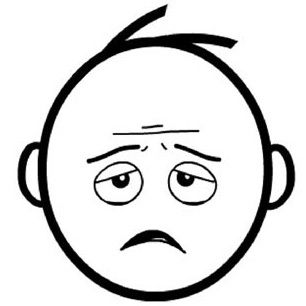
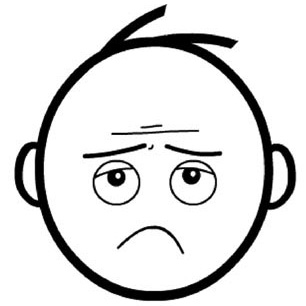
Rename nausea images to align with scale

diff --git a/src/Patient/ReportingFlows/NauseaPopUp.js b/src/Patient/ReportingFlows/NauseaPopUp.js
@@ -1,44 +1,42 @@
 import React, { useState } from 'react'
 import { makeStyles } from '@material-ui/core/styles';
 import useStores from '../../Basics/UseStores';
-import { observer } from 'mobx-react'
 import PopUp from '../Navigation/PopUp';
 import { useTranslation } from 'react-i18next';
-import Slider from '@material-ui/core/Slider';
 import Button from '@material-ui/core/Button';
-import Typography from '@material-ui/core/Typography';
 import Colors from '../../Basics/Colors'
+import { Box, ButtonBase, Grid, Typography } from '@material-ui/core';
+import FlatButton from '../../Components/FlatButton';
 
 
 const useStyles = makeStyles({
-    slider: {
-        width: "80%",
-        marginTop: "2em"
-    },
-    picture: {
-        width: "80%",
-        objectFit: "contain"
-    },
-    button: {
-        textTransform: "capitalize",
-        marginTop: "2em"
-    },
-    buttons:{
-        width: "70%",
-        display: "flex",
-        justifyContent: "space-between",
-       "& > button":{
-        border: `1px solid ${Colors.buttonBlue}`,
-        padding: 0
-       },
-        "& > button > span":{
-            color: Colors.buttonBlue,
-            fontSize: "1.75em"
-        }
-    },
     topText: {
-        marginTop: "1em",
-        marginBottom: "1em"
+        fontSize: "1.2rem",
+        textAlign: "left",
+        fontWeight: "bold"
+    },
+    selectionButton: {
+        borderRadius: "5px",
+        border: `solid 2px ${Colors.textGray}`,
+        position: "relative",
+        boxSizing: "border-box"
+    },
+    buttonNumber: {
+        position: "absolute",
+        fontSize: "1.5em",
+        alignSelf: "flex-start",
+        padding: "0 8px",
+        top: 0,
+        left: 0
+    },
+    buttonImage: {
+        width: "100%",
+        borderRadius: "5px"
+    },
+    submitButton:{
+        width: "100%",
+        fontSize: "1em",
+        justifyContent: "center"
     }
 })
 
@@ -46,7 +44,7 @@ const Nausea = () => {
 
     const classes = useStyles();
     const { patientStore } = useStores();
-    const { t, i18n } = useTranslation('translation');
+    const { t } = useTranslation('translation');
     const [value, setValue] = useState(1)
 
 
@@ -75,28 +73,32 @@ const Nausea = () => {
         }
     }
 
+    const nums = [0, 2, 4, 6, 8, 10]
+
 
     return (
         <PopUp handleClickAway={handleClose} handleClose={handleClose}>
-            <Typography className={classes.topText}>{t('patient.report.symptoms.nauseaRating')}</Typography>
-            <img className={classes.picture} src="/scale.jpg" />
-            <Slider
-                value={value}
-                className={classes.slider}
-                getAriaValueText={valuetext}
-                onChange={handleChange}
-                aria-labelledby="nausea-rating-slider"
-                valueLabelDisplay="on"
-                step={1}
-                marks
-                min={0}
-                max={10}
-            />
-            <div className={classes.buttons}>
-                <Button onClick={subtract}>-</Button>
-                <Button onClick={add} >+</Button>
-            </div>
-            <Button onClick={handleClose} className={classes.button} color="primary">{t('settings.submit')}</Button>
+            <Box paddingTop="32px">
+                <Typography variant='h1' className={classes.topText}>{t('patient.report.symptoms.instructions')}</Typography>
+            </Box>
+            <Box padding="32px 0">
+                <Grid container>
+                    {nums.map(num => {
+                        return (
+                            <Grid xs={4}>
+                                <Box padding={".25em"}>
+                                    <ButtonBase className={classes.selectionButton}>
+                                        <Typography className={classes.buttonNumber} variant="body1">{num}</Typography>
+                                        <Box padding="6px">
+                                            <img className={classes.buttonImage} src={`/img/nausea-scale/${num}.jpg`} />
+                                        </Box>
+                                    </ButtonBase>
+                                </Box>
+                            </Grid>)}
+                    )}
+                </Grid>
+            </Box>
+            <FlatButton className={classes.submitButton}>{t('settings.submit')}</FlatButton>
         </PopUp>
     )
 

diff --git a/src/Patient/ReportingFlows/SymptomList/SymptomList.test.js b/src/Patient/ReportingFlows/SymptomList/SymptomList.test.js
@@ -18,14 +18,14 @@ test('selects symptom when clicked on label', async () => {
     expect(stores.patientStore.report.selectedSymptoms.length).toBe(1)
 });
 
-it('expands subtitle when expansion button is clicked on', () => {
+it('expands subtitle when expansion button is clicked on', async () => {
     stores.patientStore.initalize();
     const { getByTestId } = render(<SymptomList />)
     const dropdownButton = getByTestId('dropdown-redness')
     const subtitle = getByTestId('subtitle-redness')
     expect(dropdownButton).toBeTruthy()
     expect(subtitle).not.toBeVisible()
-    fireEvent.click(dropdownButton)
+    await fireEvent.click(dropdownButton)
     expect(subtitle).toBeVisible()
     expect(subtitle).toHaveTextContent("Swelling, redness, itching of skin")
     

diff --git a/src/Patient/ReportingFlows/ReportSymptoms.js b/src/Patient/ReportingFlows/ReportSymptoms.js
@@ -35,7 +35,7 @@ const ReportSymptoms = observer((props) => {
                 {t("commonWords.report")} {patientStore.report.selectedSymptoms.length === 0 ? t("commonWords.no") : patientStore.report.selectedSymptoms.length} {patientStore.report.selectedSymptoms.length === 1 ? symptoms.substring(0, symptoms.length - 1) : symptoms}
             </SimpleButton>
             {patientStore.uiState.symptomWarningVisible && <SymptomWarning />}
-            {patientStore.nasueaSelected && <NauseaPopUp />}
+            <NauseaPopUp />
         </>)
 });
 

diff --git a/src/Patient/Home/Education/index.js b/src/Patient/Home/Education/index.js
@@ -47,7 +47,7 @@ const EducationalMessage = observer((props) => {
         }
     }
 
-    const visible = !isIndonesiaPilot &&  education.hasDayPassedSinceLastUpdateRead && education.message && !education.exited && !patientUIStore.onWalkthrough;
+    const visible =  education.hasDayPassedSinceLastUpdateRead && education.message && !education.exited && !patientUIStore.onWalkthrough;
 
     return (
         <>

diff --git a/src/Patient/index.js b/src/Patient/index.js
@@ -102,7 +102,7 @@ const PatientHome = observer(() => {
         <TopBar />
         <Box height="60px" />
       </div>
-      <EducationalMessage />
+      {!isIndonesiaPilot && <EducationalMessage />}
       {patientUIStore.onWalkthrough && <Intro />}
       <TopMenu />
       <div style={{ paddingBottom: "60px" }}>
